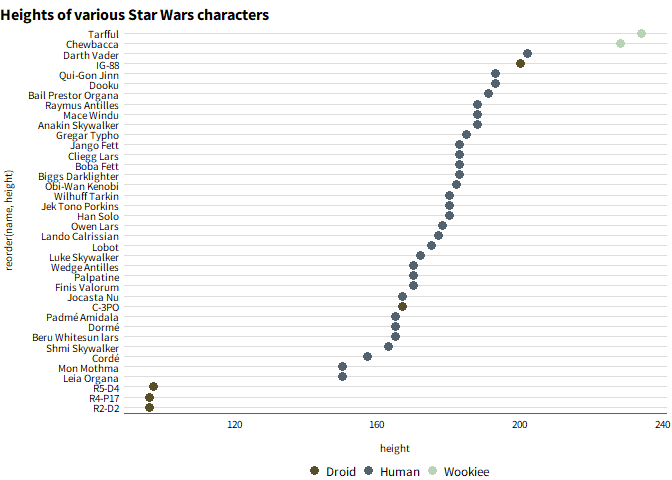
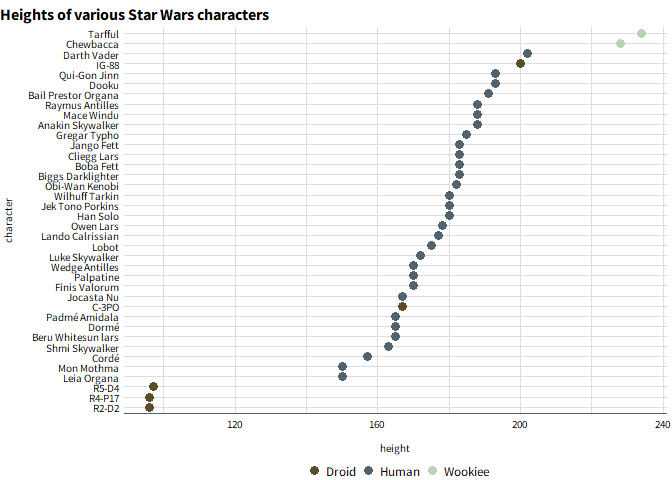
forgot about echo=F

Changed region(s): [[0.0, 0.3438, 0.0312, 0.5625]]

diff --git a/README.md b/README.md
@@ -24,6 +24,21 @@ devtools::install_github("Possibility-Lab/possibilitylabthemes")
 
 You can set the Possibility Lab theme as the default for an R session.
 
+``` r
+library(tidyverse)
+library(extrafont)
+extrafont::loadfonts(device = "win")
+
+library(possibilitylabthemes)
+possibility_defaults()
+```
+
+``` r
+ggplot(df) +
+  geom_line(aes(time, price, color = index)) +
+  labs(title = "Daily Closing Prices of Major European Stock Indices, 1991-1998")
+```
+
 <img src="man/figures/README-eu_stocks-1.png" width="100%" />
 
 To use color palettes other than the default, you can use
@@ -33,7 +48,15 @@ example. Palettes available can be returned by `possibility_palettes`.
 When you wish to add more major or minor gridlines, use
 `possibility_add_grid()`.
 
-<img src="man/figures/README-orange-1.png" width="100%" />
+``` r
+ggplot(filter(starwars, species %in% c("Human", "Droid", "Wookiee") &
+                !is.na(height))) +
+  geom_point(aes(height, reorder(name, height), color = species)) +
+  scale_color_manual(values = possibility_palette("secondary")) +
+  possibility_add_grid(add_minor = "x") +
+  labs(title = "Heights of various Star Wars characters",
+       y = "character")
+```
 
 <img src="man/figures/README-starwars-1.png" width="100%" />
 
@@ -43,62 +66,6 @@ You can set the default theme to a “map” style.
 
 ``` r
 possibility_defaults("map")
-
-berk <- sf::st_read(
-  "https://data.cityofberkeley.info/api/geospatial/6is2-y2ia?method=export&format=GeoJSON")
-#> Reading layer `OGRGeoJSON' from data source 
-#>   `https://data.cityofberkeley.info/api/geospatial/6is2-y2ia?method=export&format=GeoJSON' 
-#>   using driver `GeoJSON'
-#> Simple feature collection with 1 feature and 2 fields
-#> Geometry type: MULTIPOLYGON
-#> Dimension:     XY
-#> Bounding box:  xmin: -122.3249 ymin: 37.84589 xmax: -122.2342 ymax: 37.90584
-#> Geodetic CRS:  WGS 84
-
-blvds <- sf::st_read(
-  "https://data.cityofberkeley.info/api/geospatial/fgw9-98ic?method=export&format=GeoJSON") %>% 
-  mutate(type = "Bicycle Boulevard") %>% 
-  select(type, geometry)
-#> Reading layer `OGRGeoJSON' from data source 
-#>   `https://data.cityofberkeley.info/api/geospatial/fgw9-98ic?method=export&format=GeoJSON' 
-#>   using driver `GeoJSON'
-#> Simple feature collection with 211 features and 6 fields
-#> Geometry type: MULTILINESTRING
-#> Dimension:     XY
-#> Bounding box:  xmin: -122.3002 ymin: 37.84627 xmax: -122.2446 ymax: 37.88661
-#> Geodetic CRS:  WGS 84
-
-trails <- sf::st_read(
-  "https://data.cityofberkeley.info/api/geospatial/yepa-z7vf?accessType=DOWNLOAD&method=export&format=GeoJSON"
-  ) %>% 
-  mutate(type = "Path") %>% 
-  select(type, geometry)
-#> Reading layer `OGRGeoJSON' from data source 
-#>   `https://data.cityofberkeley.info/api/geospatial/yepa-z7vf?accessType=DOWNLOAD&method=export&format=GeoJSON' 
-#>   using driver `GeoJSON'
-#> Simple feature collection with 164 features and 3 fields
-#> Geometry type: MULTILINESTRING
-#> Dimension:     XY
-#> Bounding box:  xmin: -122.3246 ymin: 37.85119 xmax: -122.2375 ymax: 37.90373
-#> Geodetic CRS:  WGS 84
-
-streets <- sf::st_read(
-  "https://data.cityofberkeley.info/api/geospatial/hqnk-qfhq?method=export&format=GeoJSON")
-#> Reading layer `OGRGeoJSON' from data source 
-#>   `https://data.cityofberkeley.info/api/geospatial/hqnk-qfhq?method=export&format=GeoJSON' 
-#>   using driver `GeoJSON'
-#> Simple feature collection with 6969 features and 10 fields
-#> Geometry type: MULTILINESTRING
-#> Dimension:     XY
-#> Bounding box:  xmin: -122.3246 ymin: 37.8361 xmax: -122.2086 ymax: 37.94531
-#> Geodetic CRS:  WGS 84
-
-paths <- streets %>% filter(street_typ %in% c("PATH", "TRAIL")) %>% 
-  mutate(type = "Path") %>% 
-  select(type, geometry)
-
-routes <- rbind(blvds, trails, paths)
-
 
 ggplot(data = sf::st_intersection(
          filter(streets, !(street_typ %in% c("PATH", "TRAIL"))),
@@ -117,9 +84,19 @@ Use `possibility_save()` to save plots as png files. Preset sizes -
 “small”, “medium”, or “large” - will save your plot at predetermined
 dimensions and scale all fonts and graphic elements accordingly. Choose
 an orientation - “horizontal” or “vertical” - depending on your chart
-type. `possibility_save()` uses `ragg::agg_png` to save as a png file,
-which is the most suitable file format for including graphics in word
+type.
+
+`possibility_save()` uses `ragg::agg_png` to save as a png file, which
+is the most suitable file format for including graphics in word
 documents and presentations.
+
+``` r
+possibility_save("save_destination_filepath.png",
+                 x = ggplot2::last_plot(),
+                 preset_size = "medium",
+                 orientation = "vertical",  ## default is "horizontal"
+                 dpi = 300) 
+```
 
 ## Font: Source Sans Pro
 
